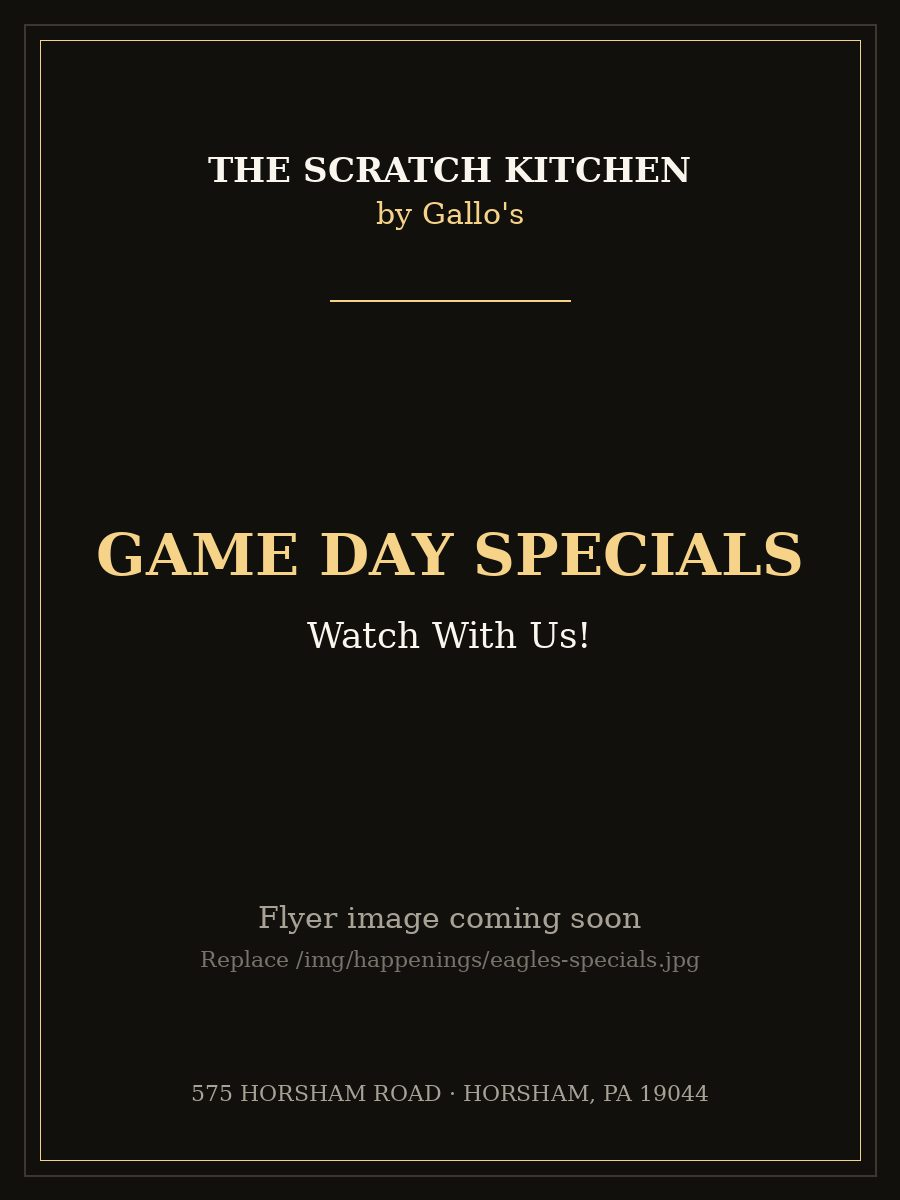
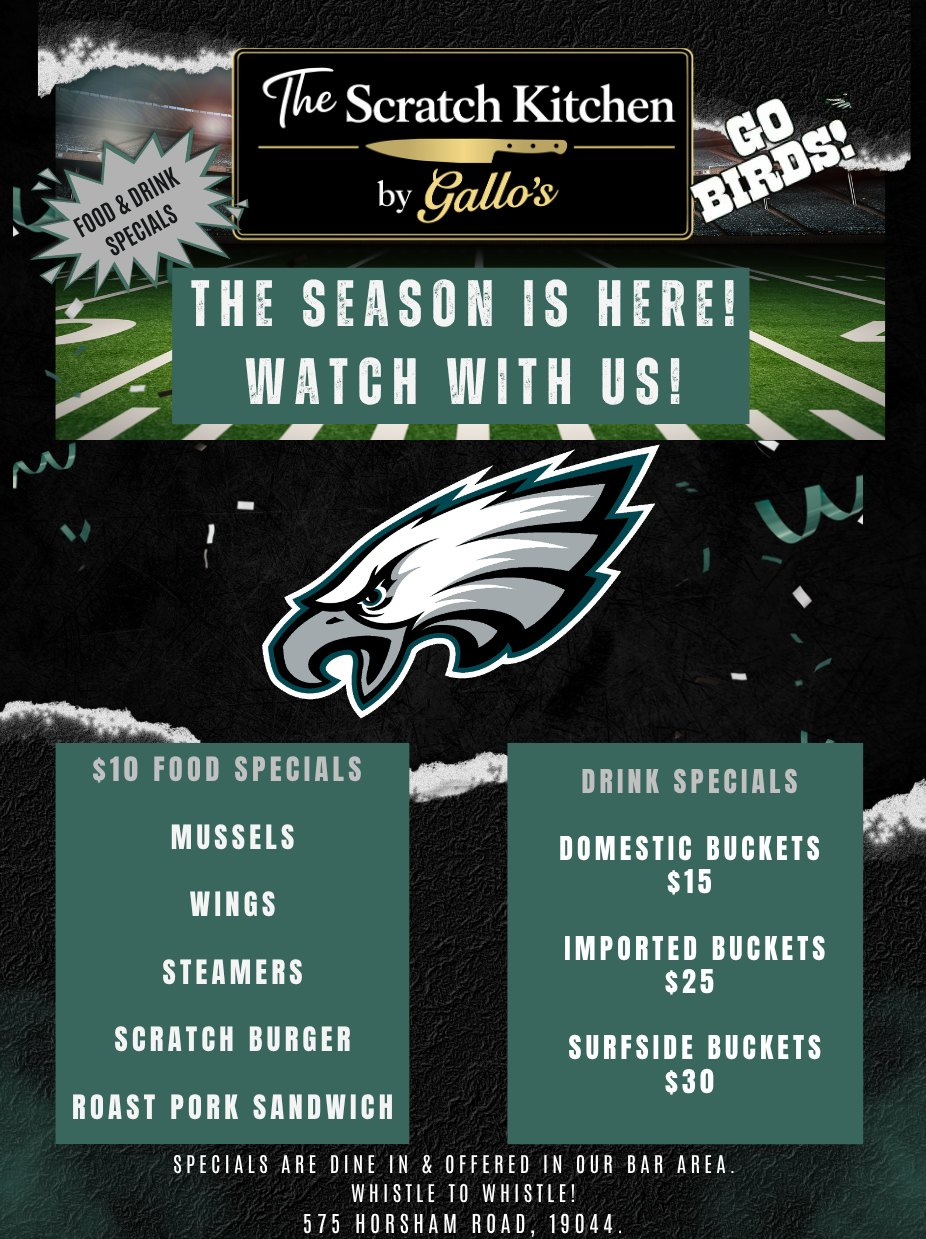
Add real event flyers to Happenings page
Replace the placeholder flyers with the actual uploaded artwork, converted
from the uploaded PNGs to web-optimized progressive JPEGs (~220 KB each,
down from ~1 MB) at the paths the page references:

- img/happenings/restaurant-week.jpg  (Horsham Restaurant Week)
- img/happenings/happy-hour.jpg       (Happy Hour drink & specials menu)
- img/happenings/eagles-specials.jpg  (Eagles game-day specials)

Remove the original space-named PNG uploads from img/ now that the
optimized copies are in place, and refresh the folder README.

Claude-Session: https://claude.ai/code/session_01SPd5fTxyzffb9KpJPj8Xf7

diff --git a/img/happenings/README.md b/img/happenings/README.md
@@ -1,12 +1,11 @@
 # Happenings flyers
 
-The /happenings page displays three flyer images, in this order:
+The /happenings page displays these three flyer images, in this order:
 
-1. restaurant-week.jpg   — Horsham Restaurant Week (prix fixe) flyer  [shown first]
-2. happy-hour.jpg        — Happy Hour / daily specials flyer          [shown second]
-3. eagles-specials.jpg   — Eagles game-day specials flyer             [shown third]
+1. restaurant-week.jpg   — Horsham Restaurant Week (prix fixe)   [shown first]
+2. happy-hour.jpg        — Happy Hour / daily specials           [shown second]
+3. eagles-specials.jpg   — Eagles game-day specials              [shown third]
 
-The files currently here are on-brand PLACEHOLDERS. Replace each one with the
-real flyer, keeping the exact same filename, and the /happenings page updates
-automatically. Portrait images (roughly 3:4) look best. JPG or PNG both work
-(if you use PNG, keep the .jpg filename or tell us to update the reference).
+To update a flyer later, replace the matching file here with the new image,
+keeping the exact same filename, and the page updates automatically. Portrait
+images (roughly 3:4, e.g. 926×1239) look best.
